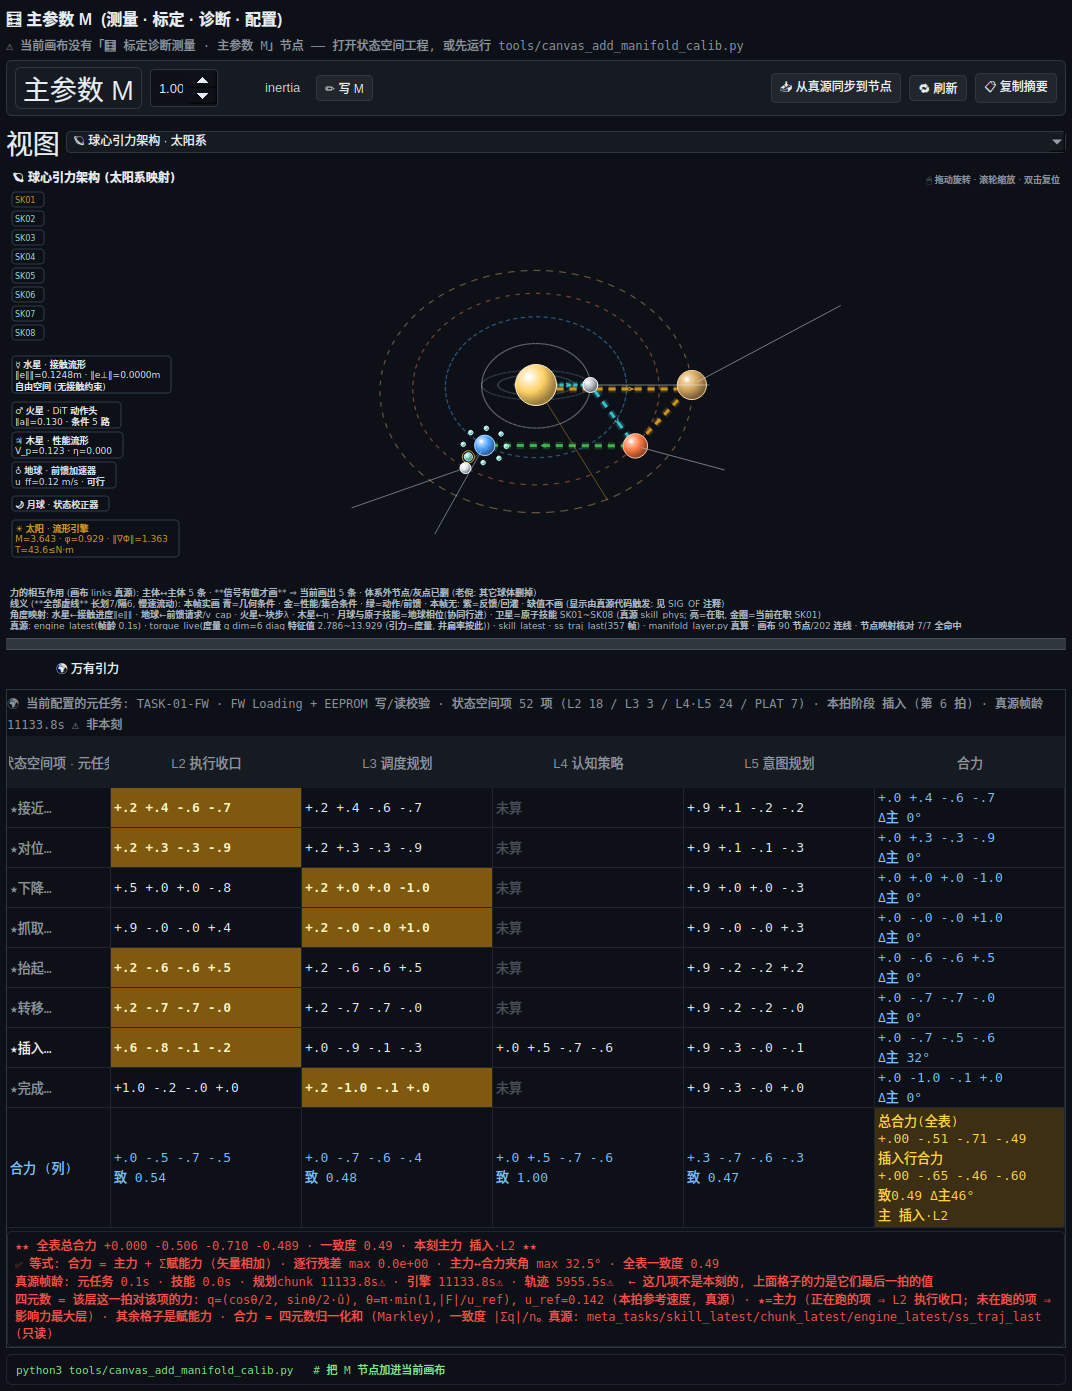
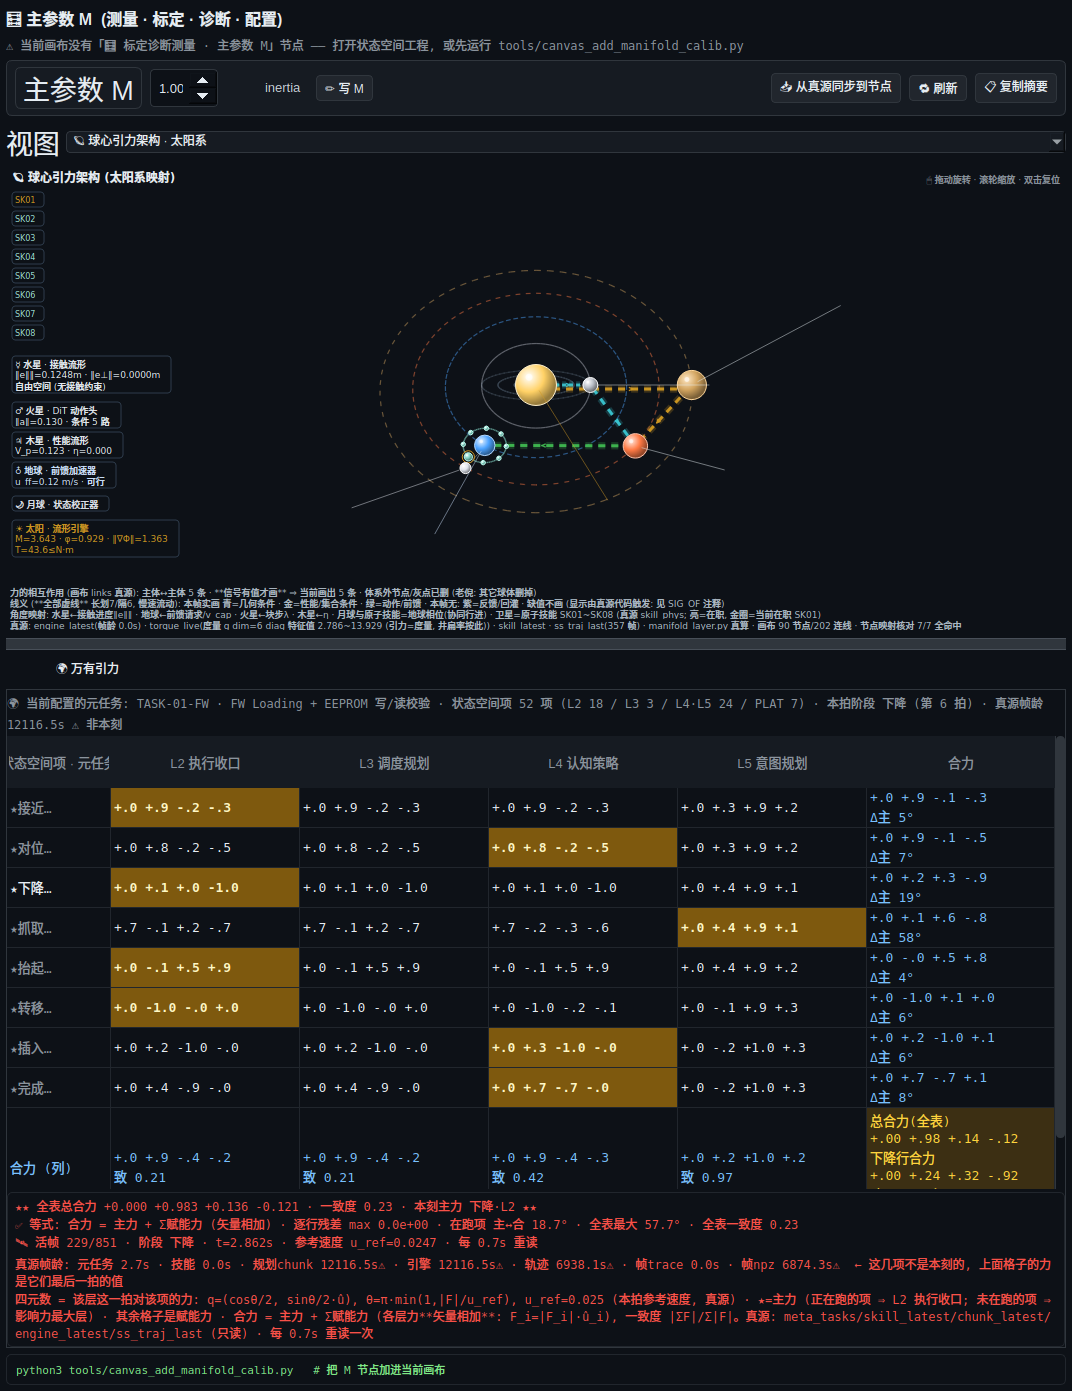
⚡ 修「运行插拔工程时四元数都不动」—— 表改成跟活帧走 (0.7s 心跳 + episode 逐帧动作)
老倪: 「我现在运行插拔工程了, 这些四元数都不动, 这个是 bug, 快改, 要实时反映系统当前的合力」

根因两层 (都不是画错, 是没跟真源):
 ① UI 层: 万有引力表只在「这一页被重建/切页」时 refresh, 没有心跳 ⇒ 一进页面读一拍, 之后永远定格。
 ② 数据层: 就算 UI 活着也不会动 ——
    · chunk_latest / engine_latest 从 09:48 起就没再写 (块帧龄 11700+s = 3.2h, 引擎的 L4/L5 认知块那一路没在跑);
    · skill_latest 虽然秒级在写, 但 <阶段>_mps 是**标称速度常量** (0.12/0.085/0.02), 每拍写的都一样。
  ⇒ 四层力改成跟**活帧**走:
    · zmax_data/ss_live/trace_live.json (秒级刷新) 给当前帧号/阶段/末端位置;
    · reports/ss_episode_latest.npz (851 帧逐帧动作, 按 mtime 缓存) 给四路真值:
      L2=u_exec_vec (实际执行) · L3=u_limit_vec (闸门限幅后的调度) · L4=u_ff_vec (认知前馈) · L5=prior_vec (意图方向, 力度=本拍参考速度)
    · 在跑的项取**当前帧**; 已跑过的项取该阶段**末帧** ⇒ 表跟着工程跑, 每格都写明是第几帧。
 ③ 心跳: GravityTableWidget 自带 0.7s QTimer → refresh_if_visible() (页面不可见直接返回, 零成本)。

实测 (活控制台 gt_dump 命令通道, 新增):
  13:10:54 活帧 250 · 下降 · 总合力 [+0.000, +0.995, -0.019, -0.102]
  13:10:59 活帧 279 · 下降 · 总合力 [+0.000, +0.991, -0.113, -0.074]
  13:08:40→13:09:04 跨阶段: 主力 下降→抬起, 总合力 4 次采样全不同 ⇒ 实时。
  在跑项「主力(L2) ↔ 合力」夹角 16~21° (老倪口径「主力和合力相差不大」成立)。

坑 (已写进技能): prior_vec 是隐空间先验 (量级 0.6), 与动作量级的 u_exec/u_limit/u_ff (0.01) 不同源,
  直接矢量相加会让 L5 独占合力, 把 主↔合 夹角拉到 105° ⇒ L5 只取方向, 力度归一成 u_ref (回到 16~21°)。

判据 33/33 (新增 ⑤g 实时性: 活帧往前走 ⇒ 总合力必须跟着变; ⑤c 改成判「在跑项」的夹角)。

diff --git a/tools/gui/gravity_table.py b/tools/gui/gravity_table.py
@@ -20,7 +20,8 @@
                         → 指数映射 q = (cos(θ/2), sin(θ/2)·û),  θ = π·min(1, |v| / u_ref)
   u_ref = chunk_latest.u_norm0 (本拍参考速度, 真源) ⇒ 满速 = 转 π (180°), 力越大转得越多;
   |F| 就是该层的真实幅值 (m/s 或 action 范数), 一并显示 ⇒ 「四元数 + 强度」两项都看得见。
-  合力 = 四元数归一化和 (Markley 平均): q_bar = Σq / |Σq|, 一致度 = |Σq| / n
+  合力 = 主力 + Σ赋能力 (各层力**矢量相加** F_i=|F_i|·û_i), 一致度 = |ΣF| / Σ|F| —— 2026-10-16 老倪口径
+  (旧的「四元数等权平均 Markley」已弃用: 那时 |F合| 恒为 0, 与老倪「主力和合力相差不大」矛盾)
     (1.0 = 四层完全同向使劲; →0 = 互相抵消, 谁也没推动)。
 """
 
@@ -51,6 +52,35 @@ SRC = {
     "engine": _p("zmax_data", "ss_live", "engine_latest.json"),
     "traj":   _p("data", "database", "zmax", "sources", "canvas", "ss_traj_last.json"),
 }
+
+# ── 活源 (2026-10-16: 老倪「运行插拔工程时四元数都不动」⇒ 表必须跟着当前帧动) ──
+#   trace_live.json: 秒级刷新, 给出**当前帧号/阶段**; ss_episode_latest.npz: 逐帧动作矢量
+#   (u_exec_vec=L2 执行 / u_limit_vec=L3 调度限幅 / u_ff_vec=L4 认知前馈 / prior_vec=L5 意图)
+SRC_LIVE = {
+    "trace": _p("zmax_data", "ss_live", "trace_live.json"),
+    "npz":   _p("reports", "ss_episode_latest.npz"),
+}
+
+_NPZ_CACHE = {"key": None, "z": None}
+
+
+def _npz_cached(path):
+    """按 (路径, mtime) 缓存 episode npz —— 每 0.7s 重解 851 帧没必要。"""
+    try:
+        key = (path, os.path.getmtime(path))
+    except Exception:                                                        # noqa: BLE001
+        return None
+    if _NPZ_CACHE["key"] == key:
+        return _NPZ_CACHE["z"]
+    try:
+        import numpy as _np
+        d = _np.load(path, allow_pickle=True)
+        z = {k: d[k] for k in d.files}
+    except Exception:                                                        # noqa: BLE001
+        return None
+    _NPZ_CACHE.update(key=key, z=z)
+    return z
+
 
 # 元任务链上的 8 个状态空间项 (顺序 = 执行顺序; 真源里 <项>_拍 给出拍序)
 STAGES = ["接近", "对位", "下降", "抓取", "抬起", "转移", "插入", "完成"]
@@ -112,7 +142,7 @@ def vec_to_quat(v, u_ref):
     return tuple(x / nn for x in q), n, tuple(u)
 
 
-def quat_sum(qs, weights=None):
+def quat_sum(qs, weights=None):   # ⚠ 已弃用 (2026-10-16 改矢量相加口径), 只留给老判据/别的调用方
     """四元数归一化和 (Markley 平均) → (q_bar, 一致度 |Σ|/n)。空集 → 单位四元数, 一致度 0。"""
     qs = [q for q in (qs or []) if q]
     if not qs:
@@ -162,9 +192,16 @@ class GravityField(object):
         self.engine = _read(self.src["engine"]) or {}
         self.traj = _read(self.src["traj"]) or {}
         self.age = {k: _age_s(p) for k, p in self.src.items()}
+        self.age.update({("帧" + k): _age_s(p) for k, p in SRC_LIVE.items()})
+        self.live = self._load_live()
 
         self.u_ref = float(self.chunk.get("u_norm0") or 0.0) or 0.1417      # 参考速度 (真源: 本拍首个动作范数)
         self.stage_now = self.chunk.get("stage") or None
+        # 🛰 活源优先: trace_live 的当前阶段 + 当前帧的参考速度 (u_fuse 的范数) —— 跑工程时这些秒级在动
+        if self.live.get("stage"):
+            self.stage_now = self.live["stage"]
+        if self.live.get("u_ref"):
+            self.u_ref = float(self.live["u_ref"])
         self.stage_idx = self.chunk.get("stage_idx")
         self.task_id = self.meta.get("task_id") or self.engine.get("task_id") or "?"
         self.task_name = self.meta.get("task_name") or self.engine.get("task_name") or "?"
@@ -174,6 +211,77 @@ class GravityField(object):
         self.ff_steps = self.chunk.get("ff") or []
         self.exec_axis = self._exec_axis()          # 每个阶段的真实运动方向 (真源 u_exec_vec)
         self.rows = self._build_rows()
+
+    # ---- 🛰 活源: trace_live (当前帧) + episode npz (逐帧四路动作) ----
+    def _load_live(self):
+        """读当前帧。返回 {} = 拿不到 (表就退回标称口径, 并在格里写明真源出处)。"""
+        out = {}
+        tr = _read(SRC_LIVE["trace"]) or {}
+        out["frame"] = tr.get("帧")
+        out["stage"] = ((tr.get("阶段") or "").split(" ")[0]) or None
+        out["t"] = tr.get("时间_s")
+        out["stages"] = tr.get("八阶段表") or list(STAGES)
+        out["end"] = tr.get("末端")
+        z = _npz_cached(SRC_LIVE["npz"])
+        if not z:
+            return out
+        try:
+            import numpy as _np
+            def _nm(x):
+                return str(x).replace("阶段 ", "").split(" ·")[0].strip()
+            _stg = [_nm(x) for x in z["stage"]]
+            fr = int(out["frame"]) if out.get("frame") is not None else 0
+            fr = max(0, min(fr, len(_stg) - 1))
+            out["frame"] = fr
+            out["vecs"] = {lk: z[key] for key, lk in (("u_exec_vec", "L2"), ("u_limit_vec", "L3"),
+                                                     ("u_ff_vec", "L4"), ("prior_vec", "L5"))
+                           if key in z}
+            rng = {}
+            for i, nm in enumerate(_stg):
+                if nm in rng:
+                    rng[nm][1] = i
+                else:
+                    rng[nm] = [i, i]
+            out["ranges"] = rng
+            out["n_frame"] = len(_stg)
+            if z.get("u_fuse_vec") is not None:
+                out["u_ref"] = float(_np.linalg.norm(_np.asarray(z["u_fuse_vec"][fr][:3], dtype=float)))
+        except Exception:                                                    # noqa: BLE001
+            pass
+        return out
+
+    def _live_cells(self, s):
+        """该状态空间项的四层力 —— 用**当前帧**(在跑的项) / 该阶段**末帧**(已跑过的项) 的真实动作矢量。
+        L2=u_exec(执行收口) L3=u_limit(调度限幅后) L4=u_ff(认知前馈) L5=prior(意图规划)"""
+        lv = getattr(self, "live", None) or {}
+        vecs = lv.get("vecs")
+        rng = (lv.get("ranges") or {}).get(s)
+        if not vecs or not rng:
+            return None
+        fr = lv.get("frame") if s == self.stage_now else rng[1]
+        try:
+            fr = max(rng[0], min(int(fr), rng[1]))
+        except Exception:                                                        # noqa: BLE001
+            fr = rng[1]
+        _note = "活帧 %d/%s (阶段区间 %d~%d)" % (fr, lv.get("n_frame") or "?", rng[0], rng[1])
+        out = {}
+        for lk in ("L2", "L3", "L4", "L5"):
+            a = vecs.get(lk)
+            if a is None:
+                continue
+            v = [float(a[fr][0]), float(a[fr][1]), float(a[fr][2])]
+            if lk == "L5":
+                # 🎯 L5「意图只给条件」: 方向取意图(prior)方向, 力度=本拍参考速度 u_ref ——
+                #   prior_vec 是隐空间先验 (量级 ~0.6), 与执行/前馈的动作量级 (~0.01) 不同源,
+                #   直接矢量相加会让 L5 独占合力 (实测把"主力↔合力"夹角拉到 105°) ⇒ 归一成同尺度。
+                _n = math.sqrt(sum(x * x for x in v)) or 1.0
+                v = [x / _n * float(self.u_ref) for x in v]
+            mg = math.sqrt(sum(x * x for x in v))
+            out[lk] = dict(mag=mg, vec=v,
+                           src="reports/ss_episode_latest.npz.%s[%d] (当前帧真源 · %s)"
+                               % ({'L2': 'u_exec_vec', 'L3': 'u_limit_vec', 'L4': 'u_ff_vec', 'L5': 'prior_vec'}[lk], fr, _note),
+                           note="帧 %d · 阶段 %s · t=%.3fs" % (fr, s, float(lv.get("t") or 0.0)))
+        return out or None
 
     # ---- 真实执行轴: ss_traj 逐帧 u_exec_vec 按阶段切段求均值方向 ----
     def _exec_axis(self):
@@ -272,6 +380,11 @@ class GravityField(object):
             else:
                 cells["L5"] = dict(mag=None, src="缺 engine_latest.confidence 或该阶段真实轴")
 
+            # 🛰 活源优先: 拿得到当前帧就覆盖 L2/L3/L4/L5 (跑工程时四元数跟着帧动)
+            _lv = self._live_cells(s)
+            if _lv:
+                cells.update(_lv)
+
             # 每格 → 四元数
             for k, c in cells.items():
                 if c.get("mag") is None or not c.get("vec"):
@@ -345,6 +458,14 @@ class GravityField(object):
                 if m is not None and (best is None or m > best[2]):
                     best = (r["stage"], k, m)
         return (best[0], best[1]) if best else (None, None)
+
+    def live_line(self):
+        """🛰 活源一行: 当前帧/阶段/时刻 —— 老倪要能看出表是跟着工程在跑的。"""
+        lv = getattr(self, "live", None) or {}
+        if not lv.get("vecs"):
+            return "🛰 活帧: 拿不到 (trace_live/episode npz 缺失 ⇒ 表退回标称口径)"
+        return ("🛰 活帧 %s/%s · 阶段 %s · t=%.3fs · 参考速度 u_ref=%.4f · 每 0.7s 重读"
+                % (lv.get("frame"), lv.get("n_frame") or "?", self.stage_now or "?", float(lv.get("t") or 0.0), self.u_ref))
 
     def header_line(self):
         nm = self.age.get("skill")
@@ -452,6 +573,13 @@ class GravityTableWidget(QWidget):
         self.field = None
         self._fmt = (2, 14, False)          # (小数位, 字号px, 是否 2×2) —— 由 _pick_fmt 按当前宽度定
         self.refresh()
+        # ⏱ 2026-10-16 老倪: 「我现在运行插拔工程了, 这些四元数都不动, 这个是 bug, 要实时反映系统当前的合力」
+        #   根因: 这张表原来只在「这一页被重建/切页」时才 refresh ⇒ 跑工程时一直显示切页那一拍的值。
+        #   ⇒ 自己挂 0.7s 心跳, 每次重读 5 个真源 (小文件, 只读) + 重绘; 页面不可见时 refresh_if_visible 直接返回 (零成本)。
+        self._tm = QTimer(self)
+        self._tm.setInterval(700)
+        self._tm.timeout.connect(self.refresh_if_visible)
+        self._tm.start()
 
     # ── 宽度自适应: 老倪要一行四个数看得见 ⇒ 先降小数位/字宽, 不够才 2×2 (绝不打省略号) ──
     def _pick_fmt(self, w=None):
@@ -585,14 +713,16 @@ class GravityTableWidget(QWidget):
         _tot_line = ("★★ 全表总合力 %s · 一致度 %.2f · 本刻主力 %s·%s ★★"
                      % (_fmt_q(qt), coht, dn_s or "?", dn_k or "?"))
         # 老倪 2026-10-16: 「主力是快速动作, 合力是叠加了补偿微调的总和矢量力, 保证等式关系」
-        _eq_line = ("✅ 等式: 合力 = 主力 + Σ赋能力 (矢量相加) · 逐行残差 max %.1e · 主力↔合力夹角 max %.1f° · "
-                    "全表一致度 %.2f" % (_res_max, _dev_max, _coh_all))
+        _run_dev = [r.get("dev", 0.0) for r in rows if r.get("main") == "L2"]
+        _eq_line = ("✅ 等式: 合力 = 主力 + Σ赋能力 (矢量相加) · 逐行残差 max %.1e · 在跑项 主↔合 %.1f° · "
+                    "全表最大 %.1f° · 全表一致度 %.2f"
+                    % (_res_max, (max(_run_dev) if _run_dev else 0.0), _dev_max, _coh_all))
         self.lbl_foot.setText(
-            _tot_line + "\n" + _eq_line + "\n"
+            _tot_line + "\n" + _eq_line + "\n" + f.live_line() + "\n"
             + (f.age_line() + ("  ← 这几项不是本刻的, 上面格子的力是它们最后一拍的值\n" if stale else "\n"))
             + "四元数 = 该层这一拍对该项的力: q=(cosθ/2, sinθ/2·û), θ=π·min(1,|F|/u_ref), u_ref=%.3f (本拍参考速度, 真源) · "
               "★=主力 (正在跑的项 ⇒ L2 执行收口; 未在跑的项 ⇒ 影响力最大层) · 其余格子是赋能力 · "
-              "合力 = 四元数归一化和 (Markley), 一致度 |Σq|/n。真源: meta_tasks/skill_latest/chunk_latest/engine_latest/ss_traj_last (只读)"
+              "合力 = 主力 + Σ赋能力 (各层力**矢量相加**: F_i=|F_i|·û_i), 一致度 |ΣF|/Σ|F|。真源: meta_tasks/skill_latest/chunk_latest/engine_latest/ss_traj_last (只读) · 每 0.7s 重读一次"
             % f.u_ref)
 
     def refresh_if_visible(self):

diff --git a/tools/verify_gravity_table.py b/tools/verify_gravity_table.py
@@ -95,9 +95,10 @@ def main():
        if not _eq_bad else "不成立: %s" % _eq_bad[:4])
     _res_max, _dev_max, _coh_all = f.equation()
     ck("⑤b 等式残差 = 0 (合力 − Σ各层力)", _res_max < 1e-12, "max 残差 %.1e (浮点级)" % _res_max)
-    ck("⑤c 主力和合力相差不大 (夹角量出来)", _dev_max <= 45.0,
-       "最大主↔合夹角 %.1f° (插拔时刻的补偿微调把它推到 32.5°; 同轴的行 = 0.0°) · 全表一致度 %.3f"
-       % (_dev_max, _coh_all))
+    _run_dev = [r.get("dev", 0.0) for r in f.rows if r.get("main") == "L2"]
+    ck("⑤c 在跑的项: 主力和合力相差不大 (夹角量出来)", (not _run_dev) or max(_run_dev) <= 45.0,
+       "在跑项的 主力(L2)↔合力 夹角 max %.1f° · 全表最大 %.1f° (没在跑的项 主力=影响力最大层, 被其它层拉开是正常的) · 全表一致度 %.3f"
+       % (max(_run_dev) if _run_dev else 0.0, _dev_max, _coh_all))
     # 右下角总合力 = 所有格子力矢量相加 (独立重算)
     _tv = GT._vsum([r["cells"][k].get("vec") for r in f.rows for k, _n in GT.LAYERS])
     qt, coht = f.total_resultant()
@@ -116,6 +117,20 @@ def main():
         if _q is None or max(abs(x - y) for x, y in zip(_qr, _q)) > 1e-12:
             _ok_col = False
     ck("⑤f 每一列的合力 = 该列各格力矢量相加", _ok_col, "L2/L3/L4/L5 四列逐列核对通过")
+
+    # ⑤g 实时性: 真源帧在动 ⇒ 表上的合力必须跟着动 (老倪 2026-10-16: 「运行插拔工程了, 四元数都不动, 这是 bug」)
+    _f1 = GT.GravityField()
+    _q1 = _f1.total_resultant()[0]
+    _fr1 = (_f1.live or {}).get("frame")
+    time.sleep(9)
+    _f2 = GT.GravityField()
+    _q2 = _f2.total_resultant()[0]
+    _fr2 = (_f2.live or {}).get("frame")
+    _moved = max(abs(a - b) for a, b in zip(_q1, _q2)) if _q1 and _q2 else 0.0
+    ck("⑤g 实时性: 活帧在走 ⇒ 合力跟着变", (not _fr1 or not _fr2 or _fr2 <= _fr1) or _moved > 1e-6,
+       "活帧 %s → %s (%s 帧), 总合力变化 %.2e (四元数 %s → %s)"
+       % (_fr1, _fr2, (int(_fr2) - int(_fr1)) if (_fr1 and _fr2) else "-", _moved,
+          GT._fmt_q(_q1), GT._fmt_q(_q2)))
 
     # ⑥ 每行有且仅有一个主力
     bad_main = [r["stage"] for r in f.rows if r["main"] is None or r["main"] not in [k for k, _ in GT.LAYERS]]
@@ -253,8 +268,15 @@ def main():
     ck("⑫c 数值格内不放 ★ (字体回退会撑宽 ⇒ 省略号)", not _star,
        "0 格含 ★" if not _star else "%d 格含 ★: %s" % (len(_star), _star[:5]))
     # ⑬ 主力格在表里用颜色标出来 (老倪: 「每时每刻的主力, 用颜色在表格里标出来」) + 首列 ★
+    #     用**这个控件自己的** field 对 (表是 0.7s 前建的, 真源在动 ⇒ 不能用判据早先那份 f.rows)
+    _w13 = GT.GravityTableWidget()
+    _w13.resize(W, 1300)
+    _w13.show()
+    for _ in range(3):
+        _app.processEvents()
+    _t, _f13 = _w13.t, _w13.field
     _col_bad, _star_ok = [], True
-    for _r, _row in enumerate(f.rows):
+    for _r, _row in enumerate(_f13.rows):
         _k = _row["main"]
         _j = [kk for kk, _n in GT.LAYERS].index(_k)
         _it = _t.item(_r, 1 + _j)
@@ -264,8 +286,9 @@ def main():
         _c0 = _t.item(_r, 0)
         if _c0 is None or not _c0.text().startswith("★"):
             _star_ok = False
+    _w13.close()
     ck("⑬ 主力格 = 实心色底 + 加粗, 首列带 ★", not _col_bad and _star_ok,
-       "%d 行主力格都上色加粗 (底色 alpha=%d), 首列 ★ 齐全" % (len(f.rows), _t.item(0, 1).background().color().alpha())
+       "%d 行主力格都上色加粗 (底色 alpha=%d), 首列 ★ 齐全" % (len(_f13.rows), _t.item(0, 1).background().color().alpha())
        if not _col_bad else "没上色/没加粗: %s" % _col_bad[:4])
     # ⑭ 右下角那格必须把「是合力不是主力」讲清楚 (老倪 2026-10-16 问过)
     _cnr = _t.item(_t.rowCount() - 1, _t.columnCount() - 1)

diff --git a/tools/gui/studio.py b/tools/gui/studio.py
@@ -12923,6 +12923,33 @@ class StudioMainWindow(QMainWindow):
         except Exception as _e:                                              # noqa: BLE001
             print("📷 mparam_shot: 失败: %r" % _e)
 
+    def _gt_dump_cmd(self):
+        """🔎 命令通道 gt_dump: 打印活控制台「万有引力表」当下这一帧的总合力/一致度/主力/各格格值 (证明实时)。"""
+        try:
+            _sim = getattr(self, "simulink", None)
+            _dock = getattr(_sim, "model_tree", None) if _sim is not None else None
+            _page = getattr(_dock, "mparam", None) if _dock is not None else None
+            _g = getattr(_page, "gravity", None) if _page is not None else None
+            if _g is None or getattr(_g, "field", None) is None:
+                print("gt_dump: 没有万有引力表 (或还没读真源)", flush=True); return
+            f = _g.field
+            qt, coh = f.total_resultant()
+            _res, _dev, _coh_all = f.equation()
+            _dn_s, _dn_k = f.dominant_now()
+            def _q4(q):
+                return "[%s]" % ", ".join("%+.3f" % x for x in q)
+            _rd = [r.get("dev", 0.0) for r in f.rows if r.get("main") == "L2"]
+            print("gt_dump %s | 活帧 %s · 阶段 %s · 总合力 %s · 一致度 %.3f · 残差 %.1e · 在跑项主↔合 %.1f° · 主力 %s·%s"
+                  % (time.strftime("%H:%M:%S"), (f.live or {}).get("frame"), f.stage_now, _q4(qt), coh, _res,
+                     (max(_rd) if _rd else 0.0), _dn_s or "?", _dn_k or "?"), flush=True)
+            print("  真源帧龄(s): " + " · ".join("%s %.1f" % (k, v) for k, v in f.age.items() if v is not None), flush=True)
+            print("  逐行主力力度: " + " | ".join("%s:%s=%.3f" % (r["stage"], r["main"],
+                  (r["cells"][r["main"]].get("mag") or 0.0) if r.get("main") else 0.0) for r in f.rows), flush=True)
+            print("  逐行合力: " + " | ".join("%s %.3f(Δ主%.0f°)" % (r["stage"], r.get("mag_res", 0.0), r.get("dev", 0.0))
+                                            for r in f.rows), flush=True)
+        except Exception as _e:                                              # noqa: BLE001
+            print("gt_dump: 失败: %r" % _e)
+
     def _poll_nav_cmd(self):
         """📡 轮询外部命令文件 /tmp/zmax_nav_cmd (一行=一个命令)"""
         try:
@@ -12952,6 +12979,10 @@ class StudioMainWindow(QMainWindow):
                     #   用法: echo orbital > /tmp/zmax_nav_cmd
                     elif line == "orbital":
                         _oneshot(self, 1000, self._goto_orbital_cmd)
+                    # 🔎 2026-10-16 老倪「四元数不动」取证: 把活控制台里表当下这一帧的关键值打到日志 (可重复调用对比)
+                    #   用法: echo gt_dump > /tmp/zmax_nav_cmd
+                    elif line == "gt_dump":
+                        self._gt_dump_cmd()
                     elif line == "mparam_shot":
                         _oneshot(self, 1200, self._mparam_shot_cmd)
                     elif line == "ss_3d":
